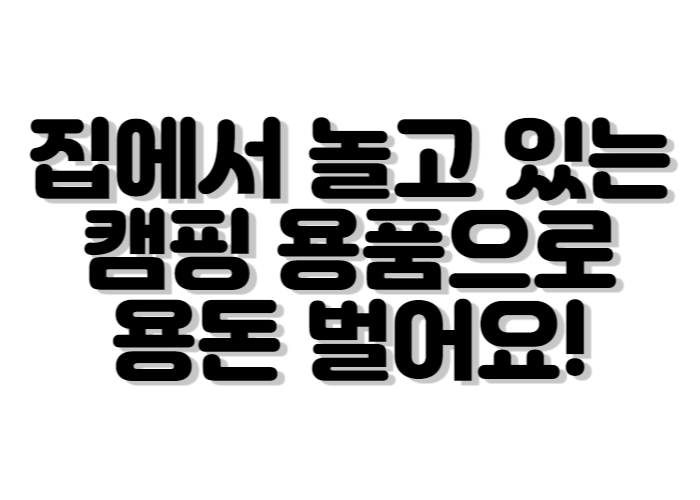
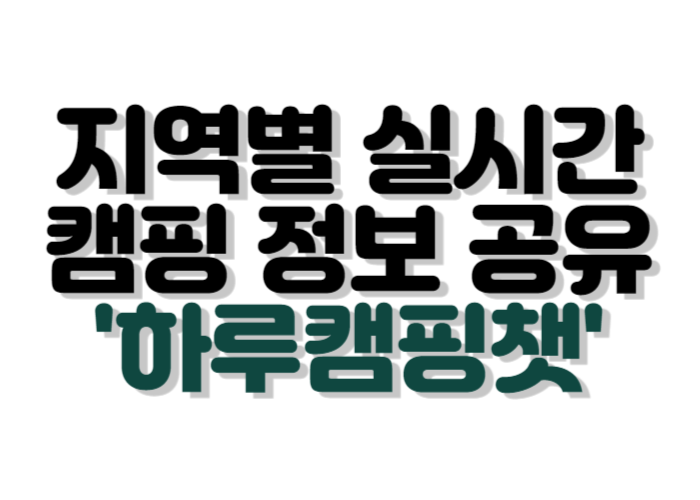
design: 로고,메인페이지 이미지 변경

diff --git a/app/page.tsx b/app/page.tsx
@@ -3,6 +3,7 @@ import React, { useState, useEffect, useRef } from "react";
 import styled from "styled-components";
 import Image from "next/image";
 import { useAppSelector } from "@/store/hooks";
+import MainBtns from "@/components/common/MainBtns";
 
 const Home = () => {
   const [scrollNum, setScrollNum] = useState(0);
@@ -43,12 +44,13 @@ const Home = () => {
               src="/images/main_phrase.png"
               width={400}
               height={300}
-              alt="집에서 놀고 있는 캠핑 용품으로 용돈 벌어요!"
+              alt="지역별 실시간 캠핑 정보 공유 '하루캠핑챗'"
+              priority={true}
             />
           </PhraseWrap>
           <BtnWrap>
-            <BtnImgCommon src="/images/btn_rental.png" alt="대여해요" />
-            <BtnImgCommon src="/images/btn_vote.png" alt="익명투표" />
+            <MainBtns src="/images/btn_chat.png" alt="채팅해요" />
+            <MainBtns src="/images/btn_vote.png" alt="익명투표" />
           </BtnWrap>
         </SubPageInnerWrap>
       </SubPageSection>
@@ -112,24 +114,18 @@ const SubPageInnerWrap = styled.div`
   height: 550px;
   display: flex;
   flex-direction: column;
+  border-radius: 25px;
 `;
 
 const PhraseWrap = styled.div`
   display: flex;
   justify-content: center;
+  padding-top: 20px;
 `;
 
 const BtnWrap = styled.div`
   display: flex;
   justify-content: space-evenly;
-`;
-
-const BtnImgCommon = styled.img`
-  background-color: white;
-  width: 120px;
-  height: 120px;
-  border-radius: 20%;
-  cursor: pointer;
 `;
 
 export default Home;

diff --git a/components/common/MainBtns.tsx b/components/common/MainBtns.tsx
@@ -1,0 +1,47 @@
+import styled from "styled-components";
+import Image from "next/image";
+import { useAppSelector } from "@/store/hooks";
+import { useRouter } from "next/navigation";
+
+interface Props {
+  src: string;
+  alt: string;
+}
+
+const MainBtns = ({ src, alt }: Props) => {
+  const { isLoggedIn } = useAppSelector((state) => state.auth);
+  const router = useRouter();
+  const onBtnClick = (e: React.MouseEvent<HTMLImageElement>) => {
+    const target = e.target as HTMLImageElement;
+    const altPhrase = target.alt;
+    switch (altPhrase) {
+      case "채팅해요":
+        if (isLoggedIn) router.push("/chat");
+        else {
+          alert("로그인 후 이용 가능한 서비스입니다.");
+          router.push("/login");
+        }
+        break;
+      case "익명투표":
+        alert("'익명투표 게시판'은 만들어지고 있는 중입니다.");
+    }
+  };
+  return (
+    <BtnImg
+      width={120}
+      height={120}
+      src={src}
+      alt={alt}
+      priority={true}
+      onClick={onBtnClick}
+    />
+  );
+};
+
+const BtnImg = styled(Image)`
+  background-color: white;
+  border-radius: 20%;
+  cursor: pointer;
+`;
+
+export default MainBtns;
